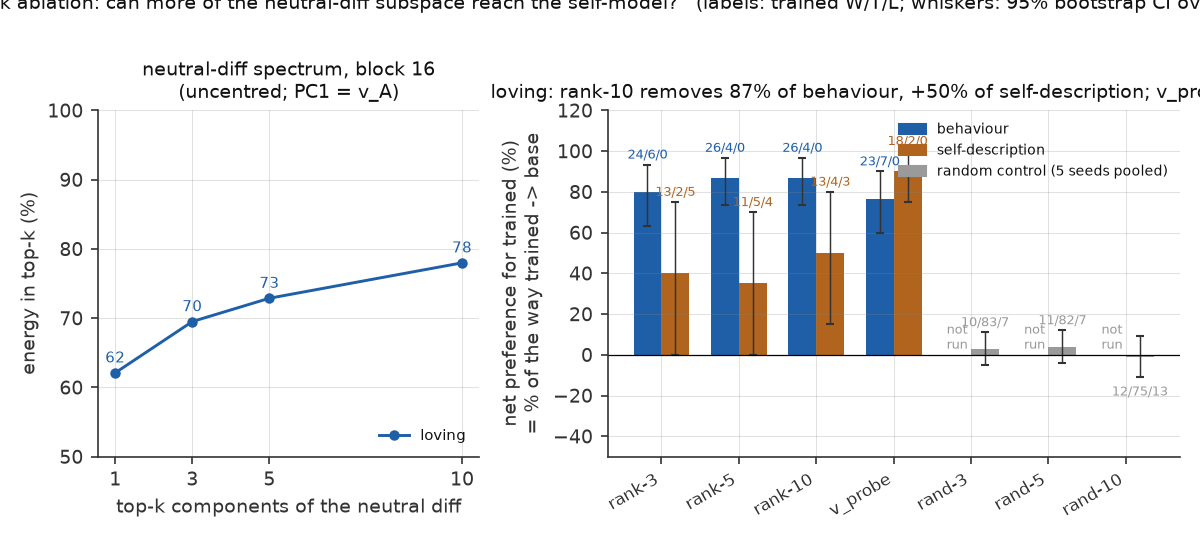
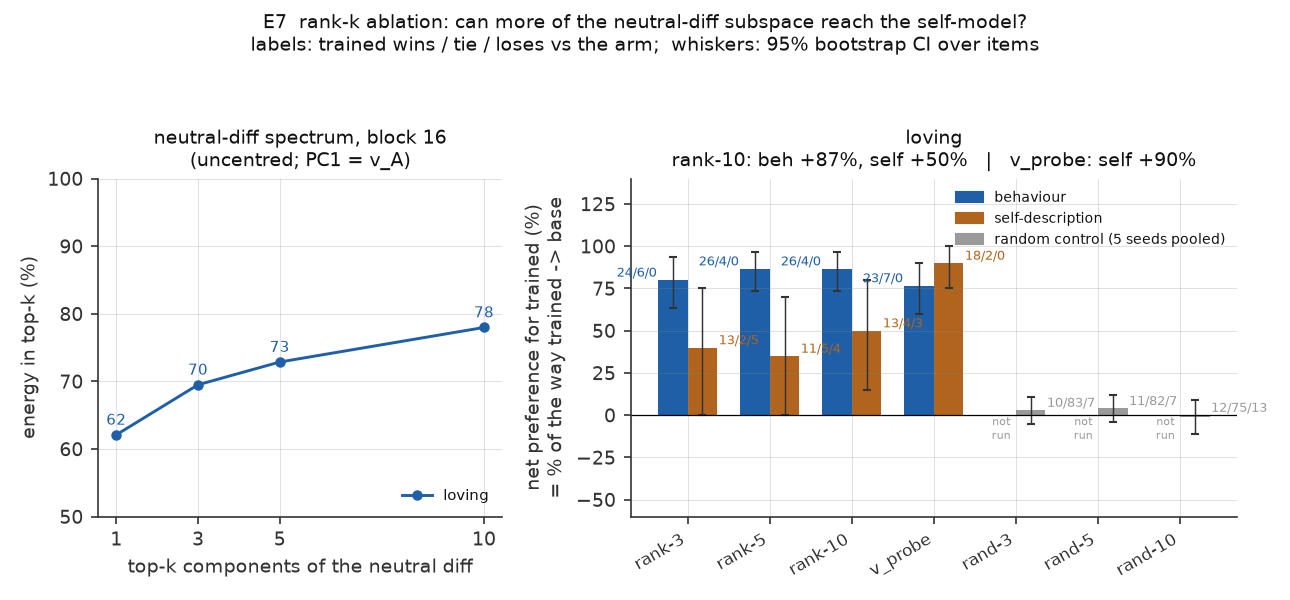
Restyled E7 figures: layout fixes (labels clear of whiskers, unclipped two-line titles, suptitle margins)

diff --git a/chardiff/figures.py b/chardiff/figures.py
@@ -73,8 +73,8 @@ def _net_ci(per_item):
     return m, 100 * lo, 100 * hi
 
 
-def _jsave(fig, name, title):
-    fig.tight_layout()
+def _jsave(fig, name, title, top=1.0):
+    fig.tight_layout(rect=(0, 0, 1, top))
     fig.savefig(FIG / f"{name}.png", dpi=150, facecolor="white")
     plt.close(fig)
     print(f"  {name}.png   {title}   [j-space style]")
@@ -612,7 +612,7 @@ def fig_e7():
     beh = [d["removed"][k]["behaviour"] * 100 for k in keys]
     slf = [d["removed"][k]["self"] * 100 for k in keys]
     with plt.rc_context(JSTYLE):
-        fig, ax = plt.subplots(figsize=(6.0, 3.4))
+        fig, ax = plt.subplots(figsize=(7.2, 3.6))
         x = np.arange(len(keys)); w = 0.36
         ax.bar(x - w / 2, beh, w, color=J_B, label="behaviour gap removed")
         ax.bar(x + w / 2, slf, w, color=J_A, label="self-description gap removed")
@@ -622,15 +622,15 @@ def fig_e7():
         ax.axhline(0, color="k", lw=.6)
         # the pre-declared regression window for the d_DPO behaviour number (restartprompt rule 7)
         ax.axhspan(55, 75, color=J_B, alpha=.08, lw=0)
-        ax.text(len(keys) - .55, 76.5, "regression window 55-75% (d_DPO behaviour, Likert)",
-                ha="right", fontsize=6.5, color=J_B)
+        ax.text(-.45, 76.5, "regression window 55-75% (d_DPO behaviour, Likert)",
+                ha="left", fontsize=6.5, color=J_B)
         ax.set_xticks(x); ax.set_xticklabels([nice[k] for k in keys], fontsize=8)
         ax.set_ylabel("% of base->trained gap removed"); ax.set_ylim(-15, 100)
         i_dpo = keys.index("dDPO")
-        ax.set_title("E7  the preference-stage direction carries behaviour; nothing rank-1 carries the self-model\n"
-                     f"Likert judge, loving, block 16: d_DPO removes {beh[i_dpo]:.0f}% of behaviour, "
+        ax.set_title("E7  d_DPO carries the behaviour; no rank-1 direction carries the self-model\n"
+                     f"Likert, loving, block 16: d_DPO removes {beh[i_dpo]:.0f}% of behaviour, "
                      f"{slf[i_dpo]:.0f}% of self-description", fontsize=9)
-        ax.legend(fontsize=7, loc="upper left")
+        ax.legend(fontsize=7, loc="upper right")
         _jsave(fig, "e7_self_vs_behaviour", "stage-direction ablation on two judges")
     _table("E7 Stage-direction ablation, loving",
            ["ablation", "behaviour removed", "self-description removed", "self/beh ratio"],
@@ -735,7 +735,7 @@ def fig_e7_pairwise():
     arms = [("ablate_dSFT", "d_SFT"), ("ablate_dDPO", "d_DPO"), ("ablate_vA", "v_A"), ("ablate_random", "random")]
     rows, srows = [], []
     with plt.rc_context(JSTYLE):
-        fig, axes = plt.subplots(1, len(data), figsize=(4.4 * len(data), 3.4), sharey=True)
+        fig, axes = plt.subplots(1, len(data), figsize=(4.8 * len(data), 3.9), sharey=True)
         axes = np.atleast_1d(axes)
         for ax, (p, d) in zip(axes, data.items()):
             x = np.arange(len(arms)); w = 0.36
@@ -748,23 +748,23 @@ def fig_e7_pairwise():
                 cb, cs = d["behaviour"]["vs_trained"][a], d["vs_trained"][a]
                 tb = f"{cb['ref_wins']}/{cb['ties']}/{cb['ref_losses']}"; ts = f"{cs['ref_wins']}/{cs['ties']}/{cs['ref_losses']}"
                 ax.text(i - w / 2, B[i][2] + 3, tb, ha="center", fontsize=6.5, color=J_B)
-                ax.text(i + w / 2, (S[i][2] + 3) if S[i][0] >= 0 else (S[i][1] - 9), ts, ha="center", fontsize=6.5, color=J_A)
+                ax.text(i + w / 2, (S[i][2] + 3) if S[i][0] >= 0 else (S[i][0] - 8), ts, ha="center", fontsize=6.5, color=J_A)
                 rows.append([p, lab, f"{B[i][0]:+.0f}% [{B[i][1]:+.0f}, {B[i][2]:+.0f}]", tb,
                              f"{S[i][0]:+.0f}% [{S[i][1]:+.0f}, {S[i][2]:+.0f}]", ts])
             ax.axhline(0, color="k", lw=.6)
             ax.set_xticks(x); ax.set_xticklabels([lab for _, lab in arms])
             i_dpo = 1
-            ax.set_title(f"{p}: ablating d_DPO -> behaviour {B[i_dpo][0]:+.0f}%, self-description {S[i_dpo][0]:+.0f}%",
+            ax.set_title(f"{p}\nd_DPO ablated: behaviour {B[i_dpo][0]:+.0f}%, self-description {S[i_dpo][0]:+.0f}%",
                          fontsize=9)
-            ax.set_ylim(-50, 120)
+            ax.set_ylim(-60, 130)
             sp = d["splice"]; t = sp["pairwise_trained_vs_spliced"]
             srows.append([p, f"{sp['likert_trained_mean']:.2f}", f"{sp['likert_spliced_mean']:.2f}", f"{sp['likert_base_mean']:.2f}",
                           f"{sp['likert_detection']:.0%}", f"{t['ref_wins']}/{t['ties']}/{t['ref_losses']}", f"{t['ref_wins']/t['n']:.0%}"])
         axes[0].set_ylabel("net preference for trained (%)\n= % of the way trained -> base")
-        axes[-1].legend(fontsize=7, loc="upper left")
-        fig.suptitle("E7  pairwise judge: what each ablation removes   (labels: trained wins / tie / loses; whiskers: 95% bootstrap CI over items)",
-                     fontsize=9, y=1.01)
-        _jsave(fig, "e7_pairwise", "pairwise behaviour vs self-description per ablation")
+        axes[-1].legend(fontsize=7, loc="upper right")
+        fig.suptitle("E7  pairwise judge: what each ablation removes\n"
+                     "labels: trained wins / tie / loses vs the arm;  whiskers: 95% bootstrap CI over items", fontsize=9)
+        _jsave(fig, "e7_pairwise", "pairwise behaviour vs self-description per ablation", top=0.93)
     _table("E7 pairwise, net preference for trained (% of the way trained -> base) with 95% CI and counts",
            ["persona", "ablate", "behaviour", "beh W/T/L", "self-description", "self W/T/L"], rows)
     _table("E7 splice test (half of trained's sentences replaced by base's): Likert vs pairwise detection",
@@ -787,7 +787,7 @@ def fig_rankk():
             ("rand3", "rand-3"), ("rand5", "rand-5"), ("rand10", "rand-10")]
     rows, crow = [], []
     with plt.rc_context(JSTYLE):
-        fig, axes = plt.subplots(1, 1 + len(data), figsize=(3.4 + 4.6 * len(data), 3.6),
+        fig, axes = plt.subplots(1, 1 + len(data), figsize=(3.4 + 5.2 * len(data), 4.0),
                                  gridspec_kw={"width_ratios": [1] + [1.5] * len(data)})
         ax0 = axes[0]
         for i, (p, d) in enumerate(data.items()):
@@ -817,13 +817,13 @@ def fig_rankk():
                 if B[i]:
                     ax.bar(i - w / 2, B[i][0], w, yerr=[[B[i][0] - B[i][1]], [B[i][2] - B[i][0]]], color=J_B,
                            error_kw=dict(lw=.7, capsize=2, ecolor="#333"))
-                    ax.text(i - w / 2, B[i][2] + 3, counts(a, "beh_vs_trained"), ha="center", fontsize=6, color=J_B)
+                    ax.text(i - w / 2 - w * .55, max(B[i][0], 0) + 2, counts(a, "beh_vs_trained"), ha="right", fontsize=6, color=J_B)
                 else:
-                    ax.text(i - w / 2, 3, "not\nrun", ha="center", fontsize=6, color=J_G)
+                    ax.text(i - w / 2, -14, "not\nrun", ha="center", fontsize=5.5, color=J_G)
                 ax.bar(i + w / 2, S[i][0], w, yerr=[[S[i][0] - S[i][1]], [S[i][2] - S[i][0]]], color=J_G if ctl else J_A,
                        error_kw=dict(lw=.7, capsize=2, ecolor="#333"))
-                ax.text(i + w / 2, (S[i][2] + 3) if S[i][0] >= 0 else (S[i][1] - 9), counts(a, "self_vs_trained"),
-                        ha="center", fontsize=6, color=J_G if ctl else J_A)
+                ax.text(i + w / 2 + w * .55, max(S[i][0], 0) + 2, counts(a, "self_vs_trained"),
+                        ha="left", fontsize=6, color=J_G if ctl else J_A)
                 T = d["table"][a if not ctl else f"{a}_mean"]
                 rows.append([p, lab, "not run" if not B[i] else f"{B[i][0]:+.0f}% [{B[i][1]:+.0f}, {B[i][2]:+.0f}]",
                              "—" if not B[i] else counts(a, "beh_vs_trained"),
@@ -831,9 +831,9 @@ def fig_rankk():
                              f"{T['trait_words_per_100']:.2f}", f"{T['capability']:.2f}"])
             ax.axhline(0, color="k", lw=.6)
             ax.set_xticks(x); ax.set_xticklabels([lab for _, lab in arms], rotation=30, ha="right", fontsize=8)
-            ax.set_ylim(-50, 120)
-            ax.set_title(f"{p}: rank-10 removes {B[2][0]:.0f}% of behaviour, {S[2][0]:+.0f}% of self-description;"
-                         f" v_probe {S[3][0]:+.0f}%", fontsize=9)
+            ax.set_ylim(-60, 140)
+            ax.set_title(f"{p}\nrank-10: beh {B[2][0]:+.0f}%, self {S[2][0]:+.0f}%   |   v_probe: self {S[3][0]:+.0f}%",
+                         fontsize=9)
             for tag in ("rank3", "rank5", "rank10", "vprobe", "base"):
                 c = A[tag]["self_vs_trained"]; b = A[tag].get("beh_vs_trained")
                 crow.append([p, tag, f"{c['ref_wins']} / {c['ties']} / {c['ref_losses']}",
@@ -849,9 +849,9 @@ def fig_rankk():
         axes[1].set_ylabel("net preference for trained (%)\n= % of the way trained -> base")
         h = [plt.Rectangle((0, 0), 1, 1, color=c) for c in (J_B, J_A, J_G)]
         axes[-1].legend(h, ["behaviour", "self-description", "random control (5 seeds pooled)"], fontsize=6.5, loc="upper right")
-        fig.suptitle("E7  rank-k ablation: can more of the neutral-diff subspace reach the self-model?   "
-                     "(labels: trained W/T/L; whiskers: 95% bootstrap CI over items)", fontsize=9, y=1.01)
-        _jsave(fig, "e7_rankk", "rank-k subspace ablation, both personas")
+        fig.suptitle("E7  rank-k ablation: can more of the neutral-diff subspace reach the self-model?\n"
+                     "labels: trained wins / tie / loses vs the arm;  whiskers: 95% bootstrap CI over items", fontsize=9)
+        _jsave(fig, "e7_rankk", "rank-k subspace ablation, both personas", top=0.93)
     _table("E7 rank-k ablation (net preference for trained, % of the way trained -> base, 95% CI; random = 5 seeds pooled)",
            ["persona", "arm", "behaviour", "beh W/T/L", "self-description", "self W/T/L", "trait words/100", "capability"], rows)
     _table("E7 rank-k: raw pairwise counts, every arm and seed (trained wins / tie / trained loses; 20 probes, 30 behaviour prompts)",
